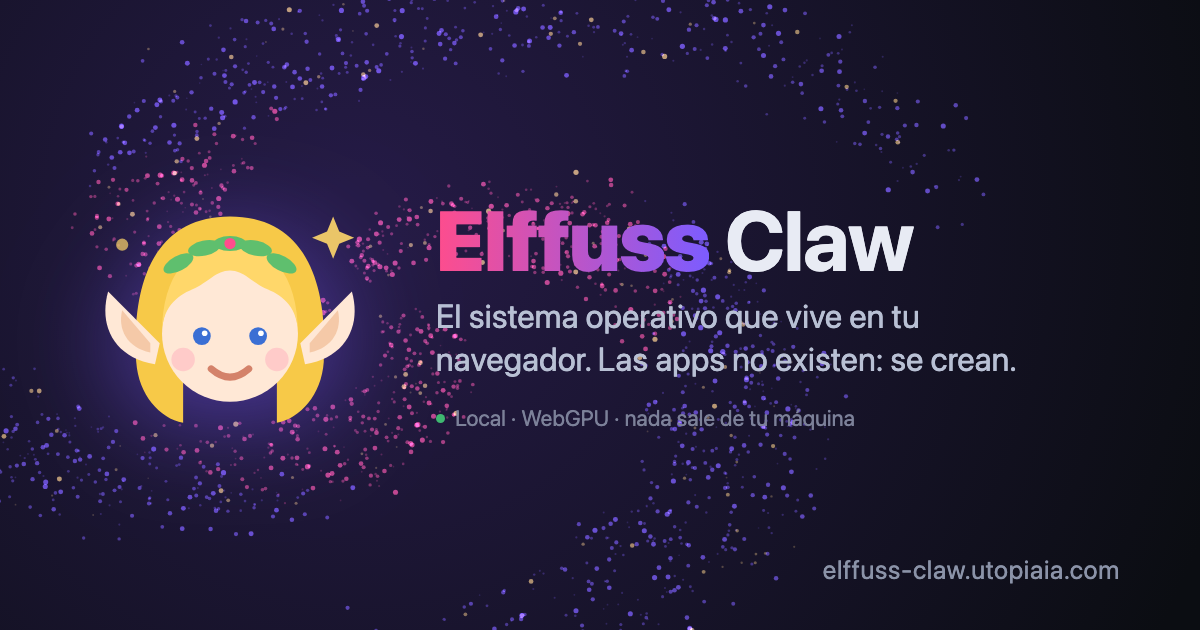
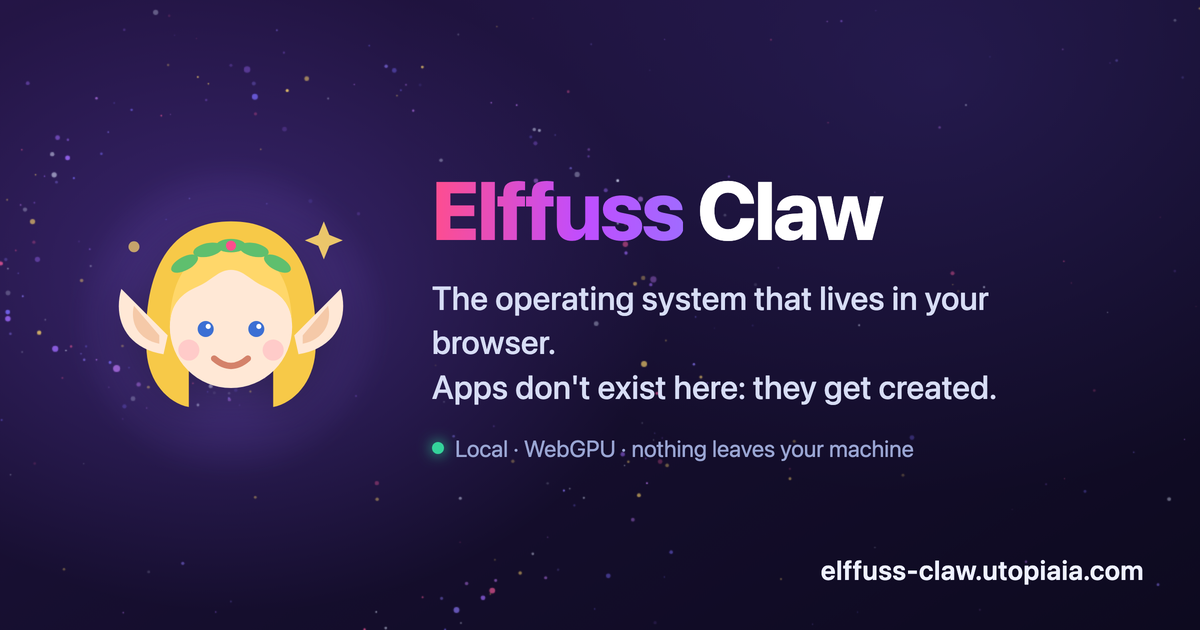
og: English social card image + og/twitter title & description

diff --git a/web/index.html b/web/index.html
@@ -6,15 +6,15 @@
 <title>Elffuss Claw — el SO que vive en tu navegador</title>
 <meta property="og:type" content="website">
 <meta property="og:site_name" content="Elffuss">
-<meta property="og:title" content="Elffuss Claw — el SO que vive en tu navegador">
-<meta property="og:description" content="Un sistema operativo agéntico en tu navegador. Las apps no existen: se crean. Modelo local, todo se queda en tu máquina.">
+<meta property="og:title" content="Elffuss Claw — the agentic OS that lives in your browser">
+<meta property="og:description" content="An agentic operating system in your browser. Apps don't exist here: they get created. Local model on WebGPU — everything stays on your machine.">
 <meta property="og:url" content="https://elffuss-claw.utopiaia.com/">
 <meta property="og:image" content="https://elffuss-claw.utopiaia.com/og.png">
 <meta property="og:image:width" content="1200">
 <meta property="og:image:height" content="630">
 <meta name="twitter:card" content="summary_large_image">
-<meta name="twitter:title" content="Elffuss Claw — el SO que vive en tu navegador">
-<meta name="twitter:description" content="Un sistema operativo agéntico en tu navegador. Las apps no existen: se crean. Modelo local, todo se queda en tu máquina.">
+<meta name="twitter:title" content="Elffuss Claw — the agentic OS that lives in your browser">
+<meta name="twitter:description" content="An agentic operating system in your browser. Apps don't exist here: they get created. Local model on WebGPU — everything stays on your machine.">
 <meta name="twitter:image" content="https://elffuss-claw.utopiaia.com/og.png">
 <meta name="description" content="Elffuss: un sistema operativo agéntico en tu navegador. Las apps no existen: se crean.">
 <link rel="stylesheet" href="css/elffuss.css">